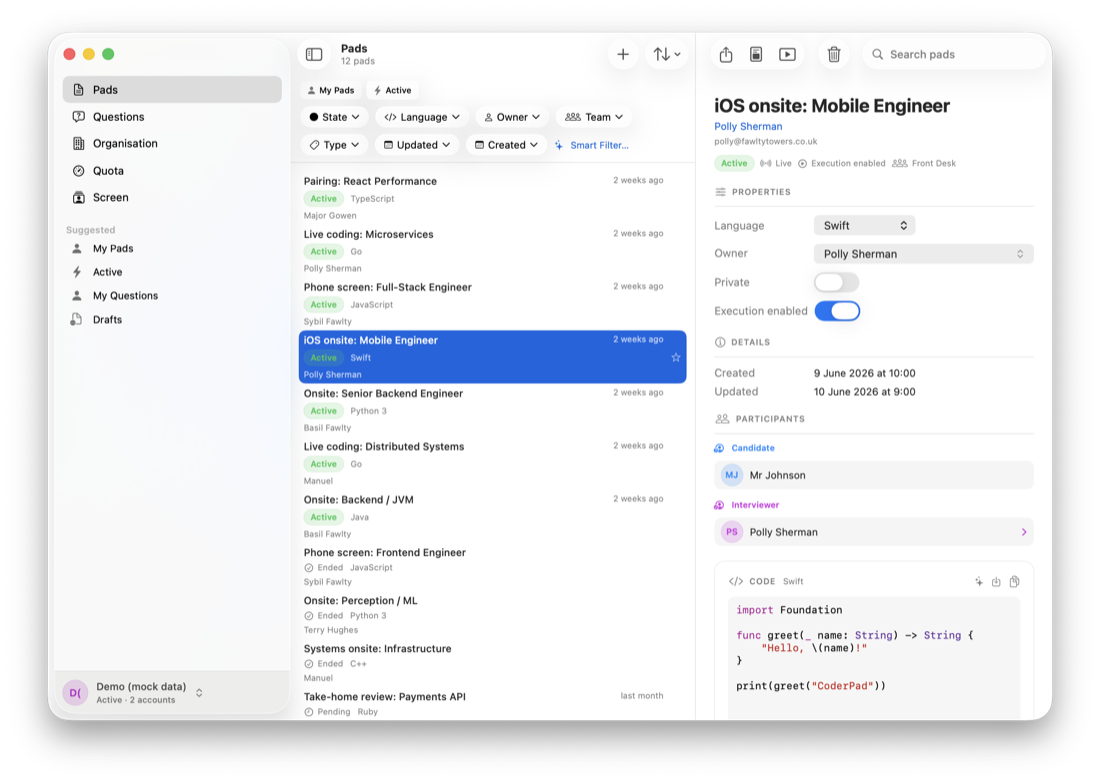
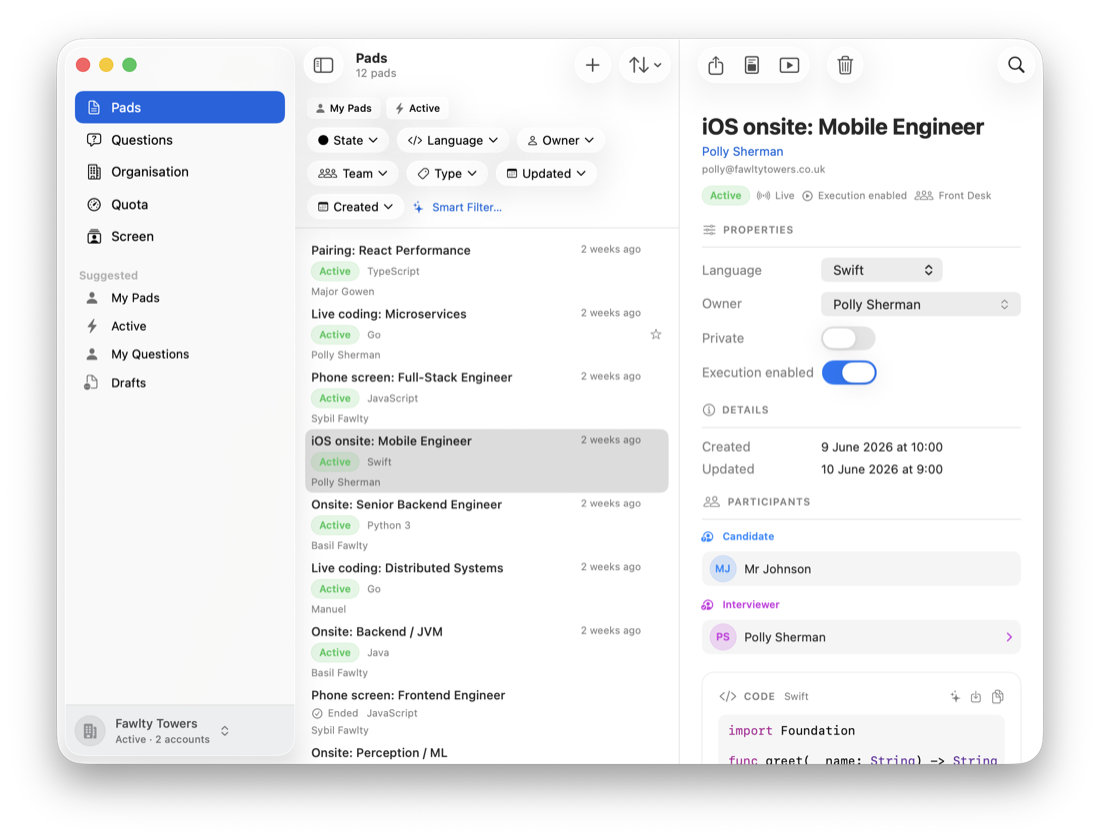
Capture marketing screenshots at large Dynamic Type and refresh the website hero images
Capture: a screenshot-only -uiTestingTextSize launch arg + ScreenshotTextSize modifier pin Dynamic Type during UI-test capture so the marketing shots read clearly; nil for real users, so their own accessibility text size is still honored. A new UI-test relaunch at accessibility1 grabs the large-text hero shot (Dynamic Type is fixed at window launch, so it needs a fresh launch).

Website: regenerated docs screenshots and added surface-*.png (Control Center, MCP, menu bar, notifications, shortcuts, Spotlight, widget), with index.html/style.css updates.

diff --git a/coderpad/coderpadApp.swift b/coderpad/coderpadApp.swift
@@ -131,6 +131,10 @@ struct CoderpadApp: App {
                 // minimums (and enforced via the sidebar's auto-collapse) rather
                 // than a hardcoded number here.
                 .frame(minHeight: 540)
+                // Screenshot-only Dynamic Type override (`-uiTestingTextSize <name>`):
+                // captures the marketing shots with larger, more legible UI text. Nil
+                // for real users, so their own accessibility text size is honored.
+                .modifier(ScreenshotTextSize(size: Self.screenshotTextSize))
                 .preferredColorScheme(appearance.colorScheme)
                 // Open the pad/question behind a tapped Spotlight result.
                 .onContinueUserActivity(CSSearchableItemActionType) { activity in
@@ -388,5 +392,39 @@ struct CoderpadApp: App {
 
     private func showAbout() {
         showAboutPanel()
+    }
+
+    /// The Dynamic Type size to pin for marketing-screenshot capture, read from
+    /// `-uiTestingTextSize <name>` (e.g. `accessibility1`). Returns nil outside that
+    /// mode so real users' system text size is always honored.
+    static var screenshotTextSize: DynamicTypeSize? {
+        let args = ProcessInfo.processInfo.arguments
+        guard let index = args.firstIndex(of: "-uiTestingTextSize"), index + 1 < args.count else {
+            return nil
+        }
+        switch args[index + 1] {
+        case "large": return .large
+        case "xLarge": return .xLarge
+        case "xxLarge": return .xxLarge
+        case "xxxLarge": return .xxxLarge
+        case "accessibility1": return .accessibility1
+        case "accessibility2": return .accessibility2
+        case "accessibility3": return .accessibility3
+        default: return nil
+        }
+    }
+}
+
+/// Applies a Dynamic Type override only when one is set; without this, pinning a
+/// non-optional size would stop honoring a real user's accessibility text setting.
+private struct ScreenshotTextSize: ViewModifier {
+    let size: DynamicTypeSize?
+
+    func body(content: Content) -> some View {
+        if let size {
+            content.dynamicTypeSize(size)
+        } else {
+            content
+        }
     }
 }

diff --git a/coderpadUITests/coderpadUITests.swift b/coderpadUITests/coderpadUITests.swift
@@ -23,9 +23,14 @@ final class CoderpadUITests: XCTestCase {
     }
 
     @MainActor
-    private func launchDemoApp() -> XCUIApplication {
+    private func launchDemoApp(textSize: String? = nil) -> XCUIApplication {
         let app = XCUIApplication()
         app.launchArguments += ["-uiTesting"]
+        // Pin a larger Dynamic Type size for the marketing capture so the UI text
+        // reads clearly on the website/App Store, without cropping or zooming.
+        if let textSize {
+            app.launchArguments += ["-uiTestingTextSize", textSize]
+        }
         app.launch()
         app.activate()
         return app
@@ -142,6 +147,28 @@ final class CoderpadUITests: XCTestCase {
                       "A seeded demo org member should appear after switching to Organization")
         usleep(1_500_000)
         capture("organization")
+
+        // The website hero again, but with a larger Dynamic Type size so the UI text
+        // is legible at the on-page size (replaces docs/assets/screenshot-pads). A
+        // fresh launch is needed because Dynamic Type is fixed at the window's launch.
+        app.terminate()
+        let large = launchDemoApp(textSize: "accessibility1")
+        XCTAssertTrue(row("Onsite: Senior Backend Engineer", in: large).waitForExistence(timeout: Self.listLoadTimeout),
+                      "The seeded pads should reload in the large-text launch")
+        usleep(3_000_000)
+        let largeRow = row("Onsite: Senior Backend Engineer", in: large)
+        let largeDeadline = Date().addingTimeInterval(5)
+        while !largeRow.isHittable, Date() < largeDeadline {
+            usleep(100_000)
+        }
+        largeRow.click()
+        usleep(1_500_000)
+        let window = large.windows.firstMatch
+        let shot = window.exists ? window.screenshot() : large.screenshot()
+        let attachment = XCTAttachment(screenshot: shot)
+        attachment.name = "pads-detail-large"
+        attachment.lifetime = .keepAlways
+        add(attachment)
     }
 
     /// The command palette's arrow keys move the selection (#532). The focused search

diff --git a/docs/index.html b/docs/index.html
@@ -140,18 +140,8 @@
             <rect x="4.5" y="10" width="15" height="10" rx="2" /><path d="M8 10V7a4 4 0 0 1 8 0v3" />
           </svg></span>Private by design</h2>
         <p>Your API key lives only in the macOS Keychain and talks only to CoderPad's own API. No
-          analytics, no ads, no server of ours. <a href="privacy-policy.html">Privacy policy &rarr;</a></p>
+          analytics, no ads, no server of ours.</p>
       </div>
-    </section>
-
-    <section class="closer wrap reveal">
-      <h2>Your pads, in a native Mac app.</h2>
-      <p class="cta cta--center">
-        <a class="button" href="https://github.com/adamtheturtle/coderpad-macos-releases/releases/latest/download/PadBuddy.dmg">
-          Download for macOS
-          <span class="button-sub">macOS 15+</span>
-        </a>
-      </p>
     </section>
   </main>
 

diff --git a/docs/style.css b/docs/style.css
@@ -72,7 +72,7 @@ a:hover { text-decoration: underline; }
 /* --- Hero ----------------------------------------------------------------- */
 
 .hero {
-  padding: 72px 0 56px;
+  padding: 72px 0 28px;
   background: var(--hero-bg);
   border-bottom: 1px solid var(--line);
   text-align: center;
